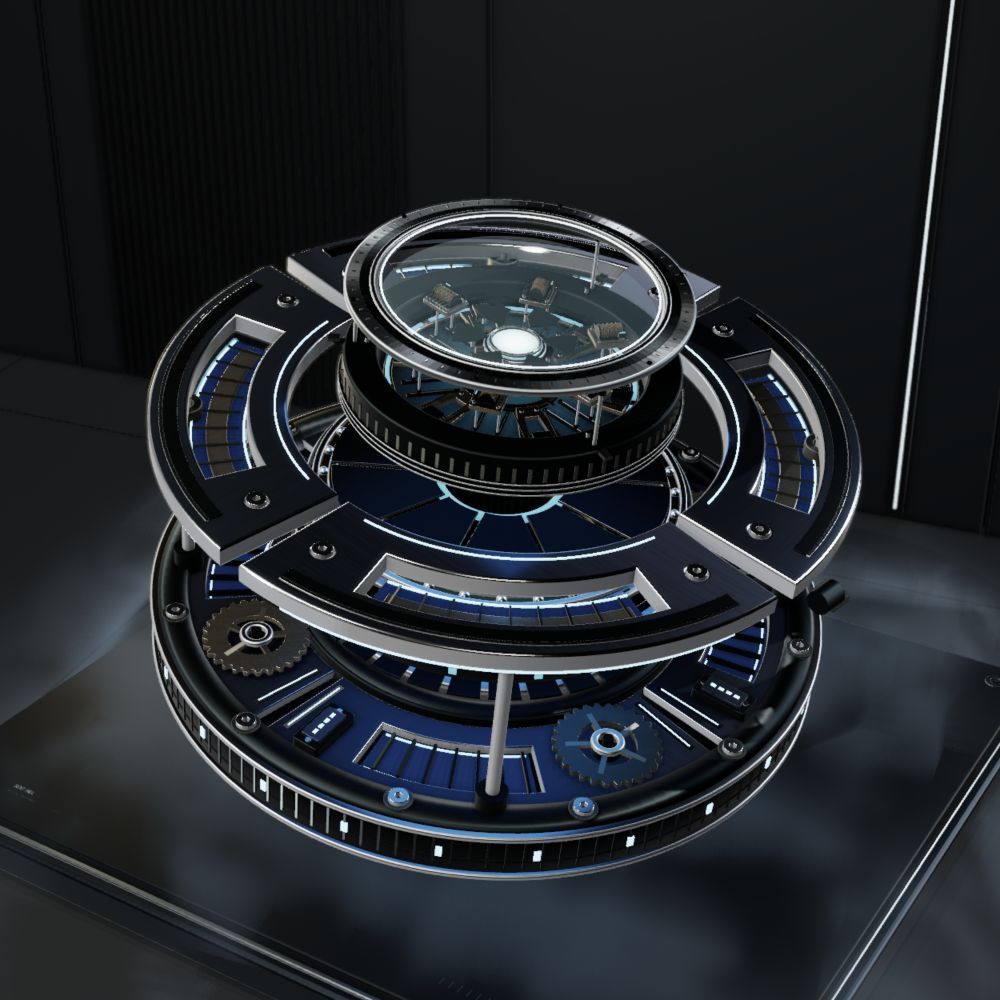
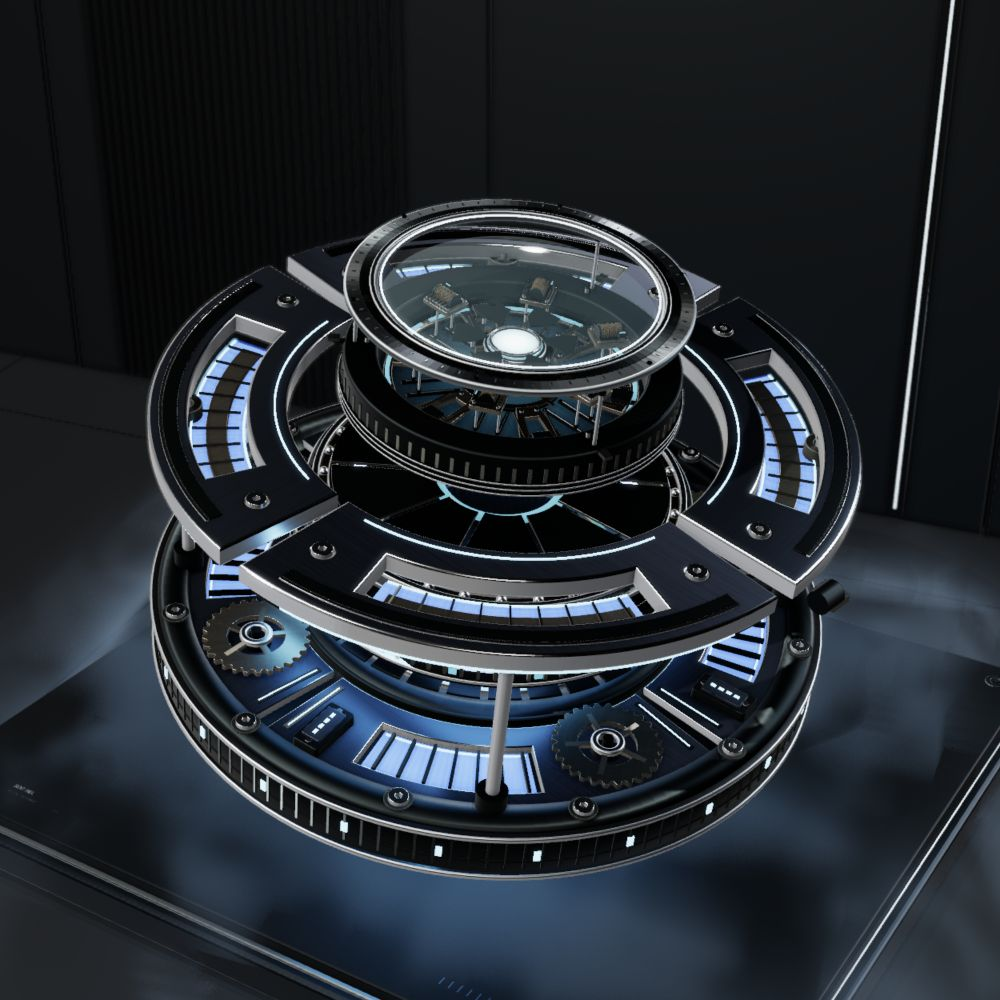
Expose a bright internal power chamber and preserve its mobile visibility

diff --git a/src/Sentinel.Api/wwwroot/sentinel-scene.js b/src/Sentinel.Api/wwwroot/sentinel-scene.js
@@ -305,7 +305,7 @@ async function photographicEnvironment(renderer,element,source) {
   }
 }
 
-function makeModel(grain) {
+function makeModel(grain, chamberLight) {
   const root=new THREE.Group(), resources=new Set(), textures=new Set();
   const materials={
     body:machinedMaterial({color:0x666965,metalness:1,roughness:.31,anisotropy:.35,envMapIntensity:1.0},grain,{strength:.65}),
@@ -323,10 +323,22 @@ function makeModel(grain) {
     emitter:new THREE.MeshStandardMaterial({color:0xe9f6ff,emissive:0xc3eaff,emissiveIntensity:5.0,roughness:.32,metalness:0}),
     lightGuide:new THREE.MeshStandardMaterial({color:0x254e59,emissive:0x199dbf,emissiveIntensity:1.6,roughness:.33,metalness:.08}),
     energy:new THREE.MeshStandardMaterial({color:0x8bdeff,emissive:0x44caff,emissiveIntensity:3.4,roughness:.3,metalness:.05}),
-    energyWell:new THREE.MeshStandardMaterial({color:0x020c1e,emissive:0x006cb5,emissiveIntensity:.24,roughness:.29,metalness:.28}),
+    energyWell:new THREE.MeshStandardMaterial({color:0x032035,emissive:0x0870ff,emissiveIntensity:3.4,roughness:.29,metalness:.08}),
+    chamber:new THREE.MeshStandardMaterial({color:0x8bdfff,emissive:0xffffff,emissiveIntensity:7.0,roughness:.38,metalness:0}),
     seam:new THREE.MeshStandardMaterial({color:0xeee6d5,emissive:0xd8c398,emissiveIntensity:.9,roughness:.36,metalness:0}),
     status:new THREE.MeshStandardMaterial({color:0xbee9ff,emissive:0x73c9ed,emissiveIntensity:2.6,roughness:.25}),
   };
+  // A bright ceramic sleeve lives inside the vented lower cartridge. Its hot
+  // centre falls to saturated blue at the edges, behind the dark metal fins.
+  materials.chamber.onBeforeCompile=shader=>{
+    shader.vertexShader=shader.vertexShader.replace('#include <common>','#include <common>\nvarying vec3 vChamberPosition;')
+      .replace('#include <begin_vertex>','#include <begin_vertex>\nvChamberPosition=position;');
+    shader.fragmentShader=shader.fragmentShader.replace('#include <common>','#include <common>\nvarying vec3 vChamberPosition;')
+      .replace('#include <emissivemap_fragment>',`#include <emissivemap_fragment>
+        float hot=exp(-abs(vChamberPosition.y)*24.0);
+        totalEmissiveRadiance*=mix(vec3(.006,.14,.95),vec3(.65,.93,1.0),hot);`);
+  };
+  materials.chamber.customProgramCacheKey=()=> 'sentinel-chamber-v1';
   const keep=g=>{resources.add(g);return g;};
   function mesh(parent,geometry,material,x=0,y=0,z=0,shadow=true){
     keep(geometry);const object=new THREE.Mesh(geometry,material);
@@ -513,11 +525,16 @@ function makeModel(grain) {
   }
 
   const cartridge=new THREE.Group();root.add(cartridge);
-  const barrelProfile=[[1.15,-.40],[1.37,-.40],[1.43,-.35],[1.43,-.14],[1.36,-.10],[1.34,.09],[1.26,.16],[1.19,.16],[1.15,.10],[1.15,-.40]];
+  // The lower barrel is open between its ribs, so the internal source is
+  // visible through real slots instead of being painted onto a solid wall.
+  const barrelProfile=[[1.15,-.15],[1.43,-.15],[1.36,-.10],[1.34,.09],[1.26,.16],[1.19,.16],[1.15,.10],[1.15,-.15]];
   mesh(cartridge,new THREE.LatheGeometry(barrelProfile.map(p=>new THREE.Vector2(...p)),160),materials.bore);
+  const chamber=ring(cartridge,1.22,1.35,.19,-.263,materials.chamber);chamber.castShadow=chamber.receiveShadow=false;
+  ring(cartridge,1.20,1.435,.040,-.381,materials.bore);
+  ring(cartridge,1.32,1.444,.025,-.36,materials.edge);
   ring(cartridge,1.33,1.42,.035,-.10,materials.edge);
   ring(cartridge,1.25,1.35,.035,.125,materials.face);
-  radial(cartridge,new THREE.BoxGeometry(.032,.17,.024),materials.body,80,1.403,-.245);
+  radial(cartridge,new THREE.BoxGeometry(.032,.22,.024),materials.body,80,1.403,-.26);
   // Recessed light-guide windows stay attached to the barrel and are exposed
   // by its mechanical travel. No floating rings or new postprocessing passes.
   const lightWindows=radial(cartridge,new THREE.BoxGeometry(.016,.078,.054),materials.lightGuide,16,1.437,-.27,Math.PI/16);
@@ -671,10 +688,14 @@ function makeModel(grain) {
   const turbineBlade=keep(arcGeometry(.85,1.41,-.055,.10,.014,.003));
   radial(rotor,turbineBlade,materials.bore,32,0,0,.1);
   ring(rotor,.86,.92,.034,.018,materials.copper);
-  // A low-power diffuser faces the carriage below the optic. Point sources
-  // almost touching the polished rim produced sharp, moving white hotspots.
-  const diffuserLight=new THREE.RectAreaLight(0x169be8,1.6,2.2,2.2);
-  diffuserLight.position.y=-.185;diffuserLight.rotation.x=-Math.PI/2;optic.add(diffuserLight);
+  // The light comes from the lower power chamber, not the top lens. Broad
+  // area sources spill onto the deck without tiny specular point-light disks.
+  const diffuserLight=new THREE.RectAreaLight(0x35bdff,6.0,2.2,2.2);
+  diffuserLight.position.y=-.39;diffuserLight.rotation.x=-Math.PI/2;cartridge.add(diffuserLight);
+  // Reuse the set's bounce source for the chamber spill. Keeping the same
+  // light count avoids recompiling every physical-material light variant.
+  chamberLight.color.setHex(0x38bfff);chamberLight.width=1.8;chamberLight.height=.20;
+  chamberLight.position.set(0,-.26,1.32);chamberLight.lookAt(0,-.26,3);cartridge.add(chamberLight);
 
   // An actual decal on one panel, rather than surrounding HUD decoration.
   const label=document.createElement('canvas');label.width=1024;label.height=256;
@@ -741,10 +762,12 @@ function makeModel(grain) {
     materials.aperture.emissiveIntensity=(2.8+pose.optic*.9)*power*breath;
     materials.lightGuide.emissiveIntensity=(1.15+pose.optic*.75)*power*breath;
     materials.energy.emissiveIntensity=(2.8+pose.lift*.7)*power*breath;
-    materials.energyWell.emissiveIntensity=(.16+pose.lift*.10)*power;
+    materials.energyWell.emissiveIntensity=(2.4+pose.lift*1.2)*power*breath;
+    materials.chamber.emissiveIntensity=(5.0+pose.carrier*2.5)*power*breath;
     materials.lightWell.emissiveIntensity=(.42+pose.optic*.22)*power;
     materials.seam.emissiveIntensity=(.65+pose.carrier*.3)*power;
-    diffuserLight.intensity=(.7+pose.optic*.9)*power*breath;
+    diffuserLight.intensity=(3.0+pose.carrier*4.0)*power*breath;
+    chamberLight.intensity=(4.0+pose.carrier*5.0)*power*breath;
     return pose.presentation;
   }
   function setState(state){
@@ -861,7 +884,7 @@ function createFinish(renderer) {
           density*=1.0-smoothstep(1.0,1.54,edge);
           float opacity=1.0-exp(-density*stepLength*.85*uMistPower);
           float blue=exp(-length(p.xz)*.32)*(.55+.45*eddy);
-          vec3 tint=mix(vec3(.22,.27,.31),vec3(.075,.28,.43),blue);
+          vec3 tint=mix(vec3(.22,.27,.31),vec3(.09,.48,.86),blue);
           scatter+=transmittance*opacity*tint;
           transmittance*=1.0-opacity;
           cursor+=stepLength;
@@ -888,7 +911,7 @@ function createFinish(renderer) {
         color=color*(1.0-vapor.a)+vapor.rgb;
         // Keep a narrow optical fringe at the emitters. The low vapor volume
         // above is independent of bloom and never washes over the whole scene.
-        color+=texture2D(tBloom,vUv).rgb*.12;
+        color+=texture2D(tBloom,vUv).rgb*.22;
         vec2 p=vUv-.5;
         color*=1.0-.24*dot(p,p);
         gl_FragColor=vec4(color,1.0);
@@ -989,7 +1012,6 @@ export async function createMechanismScene(element, {still=false,environmentData
     const cue=ignitionPose(ignition);
     lighting.softbox.intensity=8.5*(.12+.88*cue.key);
     lighting.strip.intensity=16*(.08+.92*cue.rim);
-    lighting.bounce.intensity=6.5*(.1+.9*cue.key);
     lighting.key.intensity=1.35*(.15+.85*cue.key);
     lighting.strip.position.set(-2+cue.travel*6,4-cue.travel*2,-1-cue.travel*2);
     lighting.strip.lookAt(0,0,0);
@@ -1099,7 +1121,7 @@ export async function createMechanismScene(element, {still=false,environmentData
     onProgress('geometry');
     await new Promise(resolve=>setTimeout(resolve,0));signal?.throwIfAborted();
     grain=surfaceTexture();
-    model=makeModel(grain); scene.add(model.root);
+    model=makeModel(grain,lighting.bounce); scene.add(model.root);
     await new Promise(resolve=>setTimeout(resolve,0));signal?.throwIfAborted();
     studio=makeStudio(grain);scene.add(studio.root);
     onProgress('environment');

diff --git a/src/Sentinel.Api/wwwroot/login.css b/src/Sentinel.Api/wwwroot/login.css
@@ -32,7 +32,7 @@ input{height:49px;width:100%;padding:0 42px;border:1px solid #63717a48;border-ra
 @media(min-width:1650px){.access-header,.access-footer{left:70px;right:70px}.identity-title{left:70px;top:138px}.identity-caption{left:74px;bottom:140px}.identity-panel>.scene-controls{left:70px;bottom:71px}.login-panel{width:380px}.login-content h2{font-size:34px}}
 @media(max-height:780px) and (min-width:901px){.access-shell{min-height:680px}.identity-title{top:98px}.identity-title h1{font-size:80px}.identity-caption{bottom:111px}.login-panel{padding-block:94px 73px}.access-label{margin-bottom:20px}.login-description{margin-bottom:25px}}
 @media(max-width:1100px) and (min-width:901px){.login-panel{width:312px;margin-right:36px}.identity-title,.identity-caption{left:36px}.access-header,.access-footer{left:36px;right:36px}.identity-panel>.scene-controls{left:36px;gap:13px}.identity-title h1{font-size:75px}.scene-shade{background:linear-gradient(90deg,transparent 20%,#080b1022 48%,#080b10f2 73%),linear-gradient(0deg,#080b10,transparent 35%,transparent 80%,#080b1033)}}
-@media(max-width:900px){.access-shell{min-height:max(960px,100svh);height:auto;padding-top:375px;overflow:hidden;background:#090c10}.access-header{top:25px;left:25px;right:25px}.wordmark{gap:10px}.wordmark svg{width:23px;height:23px}.wordmark>span{font-size:10px}.wordmark small{font-size:7px}.access-classification{font-size:6px;gap:6px}.access-scene{height:510px;bottom:auto;overflow:hidden}.access-scene>.mechanism{inset:0 -4%}.access-scene .mechanism-assembly{inset:0 0 0 0}.scene-shade{height:530px;bottom:auto;background:linear-gradient(0deg,#090c10 25%,#090c1000 61%,#090c1033)}.identity-panel{inset:0;pointer-events:none;height:375px}.identity-title{top:77px;left:25px}.identity-title>p{font-size:6px;margin-bottom:8px;letter-spacing:.14em}.identity-title h1{font-size:58px;letter-spacing:-.055em}.identity-title h1>span{display:none}.identity-caption{display:none}.identity-panel>.scene-controls{left:25px;bottom:0;gap:18px;background:linear-gradient(90deg,#090c10e8,#090c1055);box-shadow:0 0 18px 8px #090c1066}.identity-panel>.scene-controls [data-core-view]{font-size:9px;padding-block:13px}.identity-panel>.scene-controls .motion-toggle{font-size:6px;margin-left:0;padding-left:13px}.login-panel{margin:0 auto;padding:25px 26px 93px;height:auto;width:100%;max-width:452px}.login-content{padding-top:18px}.access-label{margin-bottom:19px;font-size:7px}.login-content h2{font-size:28px}.login-description{font-size:11px;margin-bottom:26px}.access-footer{left:25px;right:25px;bottom:24px;font-size:6px;letter-spacing:.03em}.access-footer>span:last-child{gap:7px}.access-footer>span:first-child{max-width:142px;line-height:1.8}}
+@media(max-width:900px){.access-shell{min-height:max(960px,100svh);height:auto;padding-top:410px;overflow:hidden;background:#090c10}.access-header{top:25px;left:25px;right:25px}.wordmark{gap:10px}.wordmark svg{width:23px;height:23px}.wordmark>span{font-size:10px}.wordmark small{font-size:7px}.access-classification{font-size:6px;gap:6px}.access-scene{height:510px;bottom:auto;overflow:hidden}.access-scene>.mechanism{inset:0 -4%}.access-scene .mechanism-assembly{inset:0 0 0 0}.scene-shade{height:530px;bottom:auto;background:linear-gradient(180deg,#090c1033,#090c1000 24%,#090c1000 65%,#090c10 80%)}.identity-panel{inset:0;pointer-events:none;height:410px}.identity-title{top:77px;left:25px}.identity-title>p{font-size:6px;margin-bottom:8px;letter-spacing:.14em}.identity-title h1{font-size:58px;letter-spacing:-.055em}.identity-title h1>span{display:none}.identity-caption{display:none}.identity-panel>.scene-controls{left:25px;bottom:0;gap:18px;background:linear-gradient(90deg,#090c10e8,#090c1055);box-shadow:0 0 18px 8px #090c1066}.identity-panel>.scene-controls [data-core-view]{font-size:9px;padding-block:13px}.identity-panel>.scene-controls .motion-toggle{font-size:6px;margin-left:0;padding-left:13px}.login-panel{margin:0 auto;padding:25px 26px 93px;height:auto;width:100%;max-width:452px}.login-content{padding-top:18px}.access-label{margin-bottom:19px;font-size:7px}.login-content h2{font-size:28px}.login-description{font-size:11px;margin-bottom:26px}.access-footer{left:25px;right:25px;bottom:24px;font-size:6px;letter-spacing:.03em}.access-footer>span:last-child{gap:7px}.access-footer>span:first-child{max-width:142px;line-height:1.8}}
 @media(prefers-reduced-motion:reduce){*{transition:none!important;scroll-behavior:auto!important}}
 @media(max-width:900px){.access-scene .mechanism-startup{left:50%;top:44%;width:144px}.access-scene .startup-instrument{width:112px;height:112px;margin-bottom:11px}}
 @media(max-width:420px){.identity-panel>.scene-controls{gap:12px}.identity-panel>.scene-controls .motion-toggle{padding-left:9px}.identity-panel>.scene-controls [data-core-view]>span{margin-right:4px}}
